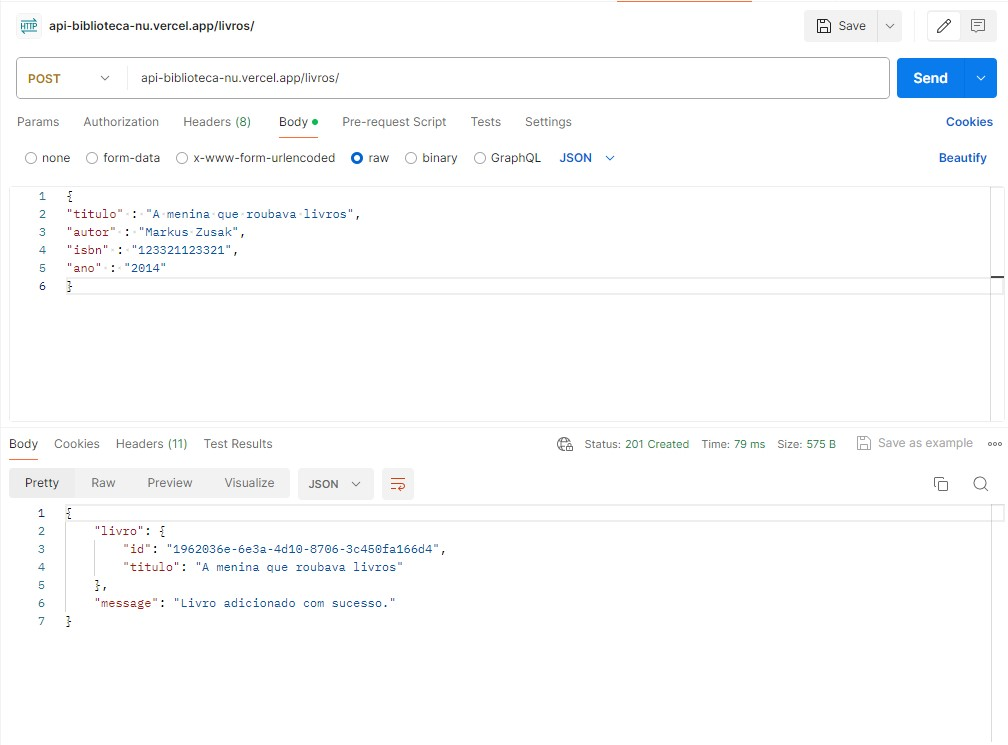
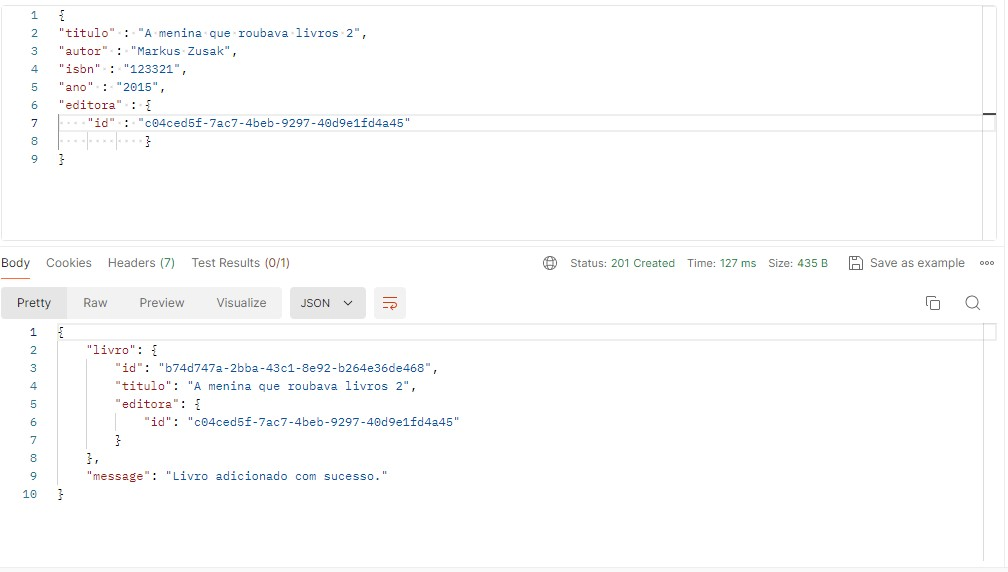
adicionado relacoes no banco de dados, de muitos para um e um para muitos, livros e editora.

diff --git a/src/livro/livro.controller.ts b/src/livro/livro.controller.ts
@@ -36,20 +36,17 @@ export class LivroController {
 
   @Put('/:id')
   async atualizaLivro(@Param('id') id: string,@Body() novosDados: AtualizaLivroDTO){
-    const livroAtualizado = await this.livroService.atualizaLivros(id, novosDados);
-
-    return {
-      livro: livroAtualizado,
-      messagem: 'Livro Atualizado com Sucesso',
+  await this.livroService.atualizaLivros(id, novosDados);
+  return {
+      messagem: 'Livro Atualizado.',
     }
   }
 
   @Delete('/:id')
   async removeLivro(@Param('id') id: string){
-    const livroRemovido = await this.livroService.deleteLivros(id);
+  await this.livroService.deleteLivros(id);
 
     return {
-      livro: livroRemovido,
       messagem: 'Livro Removido com Sucesso',
     }
   }
@@ -57,7 +54,6 @@ export class LivroController {
   @Get('/:id')
   async getLivroId(@Param('id') id: string) {
   return this.livroService.getLivroId(id);
- 
   }
 
 }

diff --git a/src/livro/livro.service.ts b/src/livro/livro.service.ts
@@ -13,7 +13,7 @@ export class LivroService {
     ) {}
 
     async criarLivro(LivroEntity: LivroEntity) {
-       return await this.livroRepository.save(LivroEntity);
+    return await this.livroRepository.save(LivroEntity);
     }
 
     async listaLivros() {
@@ -25,16 +25,16 @@ export class LivroService {
         return livrosLista;
     }
 
-    async atualizaLivros(id: string, livroEntity: AtualizaLivroDTO) {
+    async atualizaLivros(id: string, livroEntity: AtualizaLivroDTO) {        
        return await this.livroRepository.update(id,livroEntity);
     }
 
     async deleteLivros(id: string) {
-       return this.livroRepository.delete(id);
+       return await this.livroRepository.delete(id);
       }
 
       async getLivroId(id: string) {
       return this.livroRepository.findOneBy({id: id});
-        }
+    }
         
 }

diff --git a/src/livro/validacao/livro.entity.ts b/src/livro/validacao/livro.entity.ts
@@ -27,7 +27,7 @@ export class LivroEntity {
   @Column({ name: 'ano', nullable: false }) // coluna
   ano: number; // coluna
 
-  @ManyToOne(() => EditoraEntity, (editora) => editora.editora, {eager: true})
+  @ManyToOne(() => EditoraEntity, (editora) => editora.editora, {eager: true, cascade: true} )
   editora: EditoraEntity;
 
   @CreateDateColumn ({ name: 'created_at'}) // coluna

diff --git a/src/editora/validacao/editora.entity.ts b/src/editora/validacao/editora.entity.ts
@@ -16,7 +16,7 @@ export class EditoraEntity {
   @PrimaryGeneratedColumn('uuid')
   id: string; //campo
 
-  @Column({ name: 'Editora', length: 100, nullable: false }) // coluna
+  @Column({ name: 'Editora', length: 100, nullable: false}) // coluna
   editora: string;
 
   @OneToMany(() => LivroEntity, (livros) => livros.titulo)

diff --git a/src/editora/editora.service.ts b/src/editora/editora.service.ts
@@ -29,7 +29,10 @@ export class EditoraService {
      }
 
      async deleteEditora(id: string) {
-        this.editoraRepository.delete(id);
+       await this.editoraRepository.delete(id);
       }
-    
+
+      async getEditoraId(id: string) {
+        return await this.editoraRepository.findOneBy({id: id});
+      }
 }

diff --git a/src/editora/editora.controller.ts b/src/editora/editora.controller.ts
@@ -51,4 +51,9 @@ export class EditoraController {
     }
   }
 
+  @Get('/:id')
+  async getEditoraId(@Param('id') id: string) {
+ return await this.editoraService.getEditoraId(id);
+}
+
 }

diff --git a/README.md b/README.md
@@ -40,22 +40,29 @@ Nest is an MIT-licensed open source project. It can grow thanks to the sponsors 
 ## Stay in touch
 
 - Author - [Diego Gervasio](https://linktr.ee/diegogervasio)
-- Website - [senescenciaTech](https://nestjs.com/)
+- Website - [senescenciaTech](https://senescencia.tech/)
 - API - [Biblioteca for test](https://api-biblioteca-nu.vercel.app/livros/)
 
 ## License
 
   Nest is [MIT licensed](LICENSE).
 
-## Example
-[Api] (https://api-biblioteca-nu.vercel.app/ )livros/ <br>
-<b>@GET</b>
+## Example<br>
+#### Books<br>
+[Api](https://api-biblioteca-nu.vercel.app/livros/) <br><br>
+<b>@GET</b> https://api-biblioteca-nu.vercel.app/livros/
+![alt text](preview/Screenshot_1.jpg)
 
- ![alt text](preview/Screenshot_1.jpg)
+or
+
+<b>@GET</b> https://api-biblioteca-nu.vercel.app/livros/id
+
+for books specific. 
+ ![alt text](preview/Screenshot_8.jpg)
 
 <b>@POST</b>
 
-- PayLoad:
+- PayLoad new publishing:
 
 ```bash
 {
@@ -63,28 +70,88 @@ Nest is an MIT-licensed open source project. It can grow thanks to the sponsors 
 "autor" : "Markus Zusak",
 "isbn" : "123321",
 "ano" : "2015"
+"editora" : {
+    "editora" : "Nova editora"
+            }
 }
 ```
+![alt text](preview/Screenshot_7.jpg)
 
-![alt text](Screenshot_2.jpg)
-
-![alt text](Screenshot_3.jpg)
-
-<b>@PUT</b>
-- PayLoad:
+- PayLoad publisher ID that exists:
 
 ```bash
 {
-"titulo" : "A menina que roubava livros PUT",
+"titulo" : "A menina que roubava livros",
 "autor" : "Markus Zusak",
 "isbn" : "123321",
-"ano" : "2014"
+"ano" : "2015"
+"editora" : {
+    "id" : "c04ced5f-7ac7-4beb-9297-40d9e1fd4a45"
+            }
 }
 ```
-![alt text](Screenshot_4.jpg)
+![alt text](preview/Screenshot_2.jpg)
 
-![alt text](Screenshot_5.jpg)
+<b>@PUT</b>- https://api-biblioteca-nu.vercel.app/livros/id
 
-<b>@DELETE</b>
+- PayLoad:
+to update publisher pass existing ID.
 
-![alt text](Screenshot_6.jpg)
+```bash
+{
+"titulo" : "A menina que roubava livros 2 put",
+"autor" : "Markus Zusak",
+"isbn" : "123321",
+"ano" : "2015",
+"editora" : {
+    "id" : "32a29790-5c39-4b7b-864a-fe0cd5196bdf"
+}
+}
+```
+![alt text](Screenshot_9.jpg)
+
+<b>@DELETE</b> - https://api-biblioteca-nu.vercel.app/livros/id
+
+![alt text](Screenshot_3.jpg)
+
+#### Publish<br>
+
+[Api](https://api-biblioteca-nu.vercel.app/editora/) <br><br>
+<b>@GET</b> https://api-biblioteca-nu.vercel.app/editora/
+
+![alt text](preview/Screenshot_10.jpg)
+
+or
+
+<b>@GET</b> https://api-biblioteca-nu.vercel.app/editora/id
+
+for publish specific. 
+ ![alt text](preview/Screenshot_11.jpg)<br><br>
+<b>@POST</b>
+
+- PayLoad new publishing:
+
+```bash
+{
+
+    "editora" : "Nova editora"
+        
+}
+```
+![alt text](preview/Screenshot_12.jpg)<br> <br>
+
+<b>@PUT</b>- https://api-biblioteca-nu.vercel.app/editora/id
+
+- PayLoad:
+```bash
+{
+"editora" : "Nova editora PUT"
+}
+```
+![alt text](preview/Screenshot_13.jpg)
+
+<b>@DELETE</b> - https://api-biblioteca-nu.vercel.app/editora/id 
+<br> <br>
+<b>Warning:</b> To exclude a publisher, it cannot be linked to a book.
+
+![alt text](preview/Screenshot_14.jpg)
